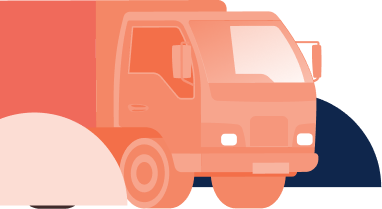
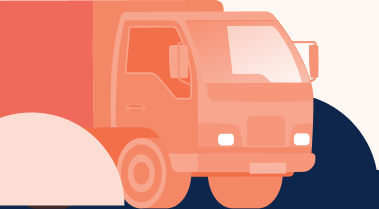
connection background

diff --git a/css/style.css b/css/style.css
@@ -41,6 +41,28 @@ button{
     line-height: 40px;
 }
 
+.page-button{
+    display: block;
+    width: fit-content;
+    padding: 20px 78px 20px 25px;
+    background-color: #EE4D47;
+    background-image: url(../img/page/arrow.svg);
+    background-position: center right 24px;
+    border-radius: 5px;
+    font-family: 'Rubik';
+    font-weight: 700;
+    font-size: 16px;
+    line-height: 19px;
+    letter-spacing: 0.05em;
+    text-transform: uppercase;
+    color: #fff;
+    transition: .15s;
+}
+
+.page-button:hover{
+    filter: brightness(110%);
+}
+
 /* Header */
 
 .header{
@@ -126,28 +148,6 @@ button{
     font-size: 100px;
     margin-bottom: 60px;
     color: #fff;
-}
-
-.intro__start{
-    display: block;
-    width: fit-content;
-    padding: 20px 78px 20px 25px;
-    background-color: #EE4D47;
-    background-image: url(../img/page/arrow.svg);
-    background-position: center right 24px;
-    border-radius: 5px;
-    font-family: 'Rubik';
-    font-weight: 700;
-    font-size: 16px;
-    line-height: 19px;
-    letter-spacing: 0.05em;
-    text-transform: uppercase;
-    color: #fff;
-    transition: .15s;
-}
-
-.intro__start:hover{
-    filter: brightness(110%);
 }
 
 /* About */
@@ -247,22 +247,11 @@ button{
     margin-bottom: 177px;
 }
 
-/*
-.faq-bg{
-    position: relative;
-    z-index: 1;
-    max-width: 1170px;
-    margin-left: auto;
-    background-color: #fdede8;
-    border-radius: 150px 0 0 0;
-}
-*/
-
 .faq{
     position: relative;
 }
 
-.faq::before{
+.faq::after{
     content: '';
     position: absolute;
     top: 0;
@@ -499,6 +488,24 @@ button{
 }
 */
 
+.connect{
+    background-image: url(../img/connect/connect-bg.png);
+    position: relative;
+}
+
+.connect::after{
+    content: '';
+    position: absolute;
+    top: 170px;
+    left: 0;
+    width: 100%;
+    max-width: 1400px;
+    height: 100%;
+    background-color: #0f264c;
+    border-radius: 75px;
+    z-index: -1;
+}
+
 .connect__content{
     padding: 60px 135px 120px 0;
 }
@@ -515,6 +522,7 @@ button{
 }
 
 .connect__form-text{
+    display: block;
     font-weight: 300;
     font-size: 16px;
     line-height: 40px;

diff --git a/index.html b/index.html
@@ -52,7 +52,7 @@
                     <h1 class="intro__title">
                         Your awesome traffic permit consultant.
                     </h1>
-                    <a href="#!" class="intro__start">
+                    <a href="#!" class="intro__start page-button">
                         Get started
                     </a>
                 </div>
@@ -338,20 +338,20 @@
                         </p>
                         <form class="connect__form">
                             <div class="connect__form-container">
-                                <p class="connect__form-text">
+                                <label class="connect__form-text">
                                     Name
-                                </p>
+                                </label>
                                 <input type="text" placeholder="Your name" class="connect__form-input">
                             </div>
 
                             <div class="connect__form-container">
-                                <p class="connect__form-text">
+                                <label class="connect__form-text">
                                     Email address
-                                </p>
+                                </label>
                                 <input type="text" placeholder="Your email address" class="connect__form-input">
                             </div>
 
-                            <button class="connect__form-button">
+                            <button class="connect__form-button page-button">
                                 Get started
                             </button>
                         </form>
